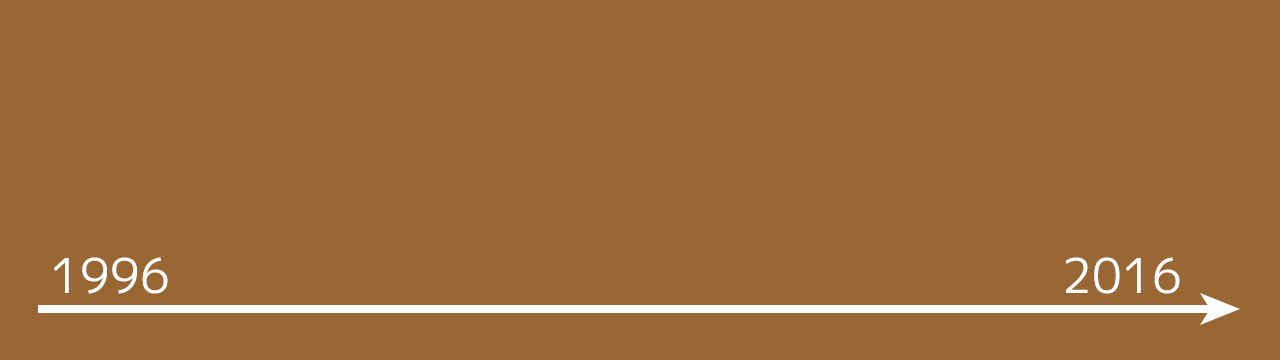
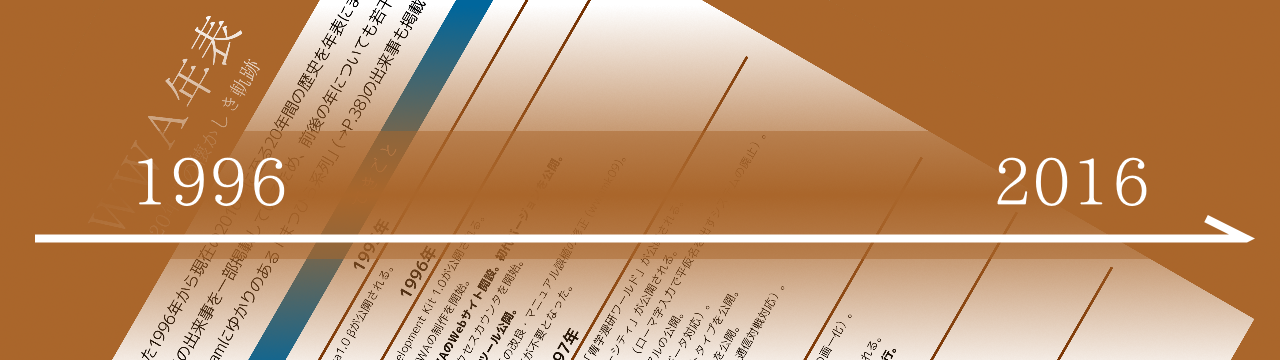
フッターのクラス名修正とシェアボタン設置

diff --git a/wwabook_20th.html b/wwabook_20th.html
@@ -43,8 +43,20 @@
 						<p>WWAの20周年を記念に執筆した同人誌です。WWA製作者様のインタビューや、今に至るまでの年表など、WWAの20年が詰まった一冊です。</p>
 						<ul>
 							<li>初版出版日: <strong>2016年12月29日</strong> (コミックマーケット 91)</li>
-							<li>ページ数: <strong>56ページ</strong> (無線綴じ仕様)</li>
+							<li>ページ数: <strong>56ページ</strong> (フルカラー 無線綴じ仕様)</li>
 						</ul>
+						<div class="fansq-wwabook-20th__share">
+							<div class="fansq-wwabook-20th__share__btn fansq-wwabook-20th__share__btn-twitter">
+								<a href="https://twitter.com/share" class="twitter-share-button" data-url="http://www.wwafansq.com/wwabook_20th.html" data-text="WWAの冒険書 ～20年の軌跡をQuickLoad!!～" data-via="wwa_fansq" data-lang="ja" data-size="large" data-hashtags="WWAの薄い本">ツイート</a>
+								<script>
+									!function(d,s,id){var js,fjs=d.getElementsByTagName(s)[0],p=/^http:/.test(d.location)?'http':'https';if(!d.getElementById(id)){js=d.createElement(s);js.id=id;js.src=p+'://platform.twitter.com/widgets.js';fjs.parentNode.insertBefore(js,fjs);}}(document, 'script', 'twitter-wjs');
+								</script>
+							</div>
+							<div class="fansq-wwabook-20th__share__btn fansq-wwabook-20th__share__btn-facebook">
+								<iframe src="https://www.facebook.com/plugins/share_button.php?href=http%3A%2F%2Fwww.wwafansq.com%2Fwwabook_20th.html&layout=button&size=large&mobile_iframe=false&width=75&height=28&appId" width="75" height="28" style="border:none;overflow:hidden" scrolling="no" frameborder="0" allowTransparency="true">
+								</iframe>
+							</div>
+						</div>
 					</div>
 				</div>
 			</div>
@@ -148,7 +160,7 @@
 			<footer class="fansq-footer mdl-mega-footer">
 				<div class="fansq--max-width mdl-mega-footer--middle-section">
 					<div class="mdl-mega-footer--left-section">
-						<button class="mdl-mini-footer__social-btn social-btn social-btn__twitter" onclick="location.href='https://twitter.com/wwa_fansq'">
+						<button class="mdl-mega-footer__social-btn social-btn social-btn__twitter" onclick="location.href='https://twitter.com/wwa_fansq'">
 							<span class="invisible">Twitter</span>
 						</button>
 					</div>
@@ -159,7 +171,7 @@
 						</a>
 					</div>
 				</div>
-				<div class="fansq--max-width mdl-mini-footer--bottom-section">
+				<div class="fansq--max-width mdl-mega-footer--bottom-section">
 					<p>
 						<a rel="license" href="http://creativecommons.org/licenses/by/4.0/"><img alt="クリエイティブ・コモンズ・ライセンス" style="border-width:0" src="https://i.creativecommons.org/l/by/4.0/88x31.png"></a><br>
 						このページの内容は、例外を除き、 <a rel="license" href="http://creativecommons.org/licenses/by/4.0/">クリエイティブ・コモンズ 表示 4.0 国際 ライセンス</a>の下に提供されています。ただし、WWA原作(キャラバンサークル)から提供されている画像や音声、文章、ソースコードなどの著作物につきましては、一部の著作権が原作者のNAO様に帰属します。詳しくは<a href="http://wwajp.com">WWA公式サイトをご確認ください</a>。

diff --git a/index.html b/index.html
@@ -94,7 +94,7 @@
 			<footer class="fansq-footer mdl-mega-footer">
 				<div class="fansq--max-width mdl-mega-footer--middle-section">
 					<div class="mdl-mega-footer--left-section">
-						<button class="mdl-mini-footer__social-btn social-btn social-btn__twitter" onclick="location.href='https://twitter.com/wwa_fansq'">
+						<button class="mdl-mega-footer__social-btn social-btn social-btn__twitter" onclick="location.href='https://twitter.com/wwa_fansq'">
 							<span class="invisible">Twitter</span>
 						</button>
 					</div>
@@ -105,7 +105,7 @@
 						</a>
 					</div>
 				</div>
-				<div class="fansq--max-width mdl-mini-footer--bottom-section">
+				<div class="fansq--max-width mdl-mega-footer--bottom-section">
 					<p>
 						<a rel="license" href="http://creativecommons.org/licenses/by/4.0/"><img alt="クリエイティブ・コモンズ・ライセンス" style="border-width:0" src="https://i.creativecommons.org/l/by/4.0/88x31.png"></a><br>
 						このページの内容は、例外を除き、 <a rel="license" href="http://creativecommons.org/licenses/by/4.0/">クリエイティブ・コモンズ 表示 4.0 国際 ライセンス</a>の下に提供されています。ただし、WWA原作(キャラバンサークル)から提供されている画像や音声、文章、ソースコードなどの著作物につきましては、一部の著作権が原作者のNAO様に帰属します。詳しくは<a href="http://wwajp.com">WWA公式サイトをご確認ください</a>。

diff --git a/styles.css b/styles.css
@@ -68,6 +68,19 @@ body {
 	padding: 1rem;
 }
 
+.fansq-wwabook-20th__share__btn-facebook {
+	overflow-x: hidden;
+	width: 75px;
+}
+
+.fansq-wwabook-20th__share {
+	text-align: center;
+}
+
+.fansq-wwabook-20th__share__btn {
+	display: inline-block;
+}
+
 .fansq-wwabook-20th-interview-section {
 	background-color: #28459b;
 	color: white;
@@ -94,7 +107,7 @@ body {
 }
 
 .fansq-wwabook-20th-history-section > .fansq--max-width {
-	background: url('assets/wwabook_20th-history.png') center top / cover;
+	background: url('assets/wwabook_20th-history.png') no-repeat center top / 100%;
 	height: 480px;
 	position: relative;
 }
